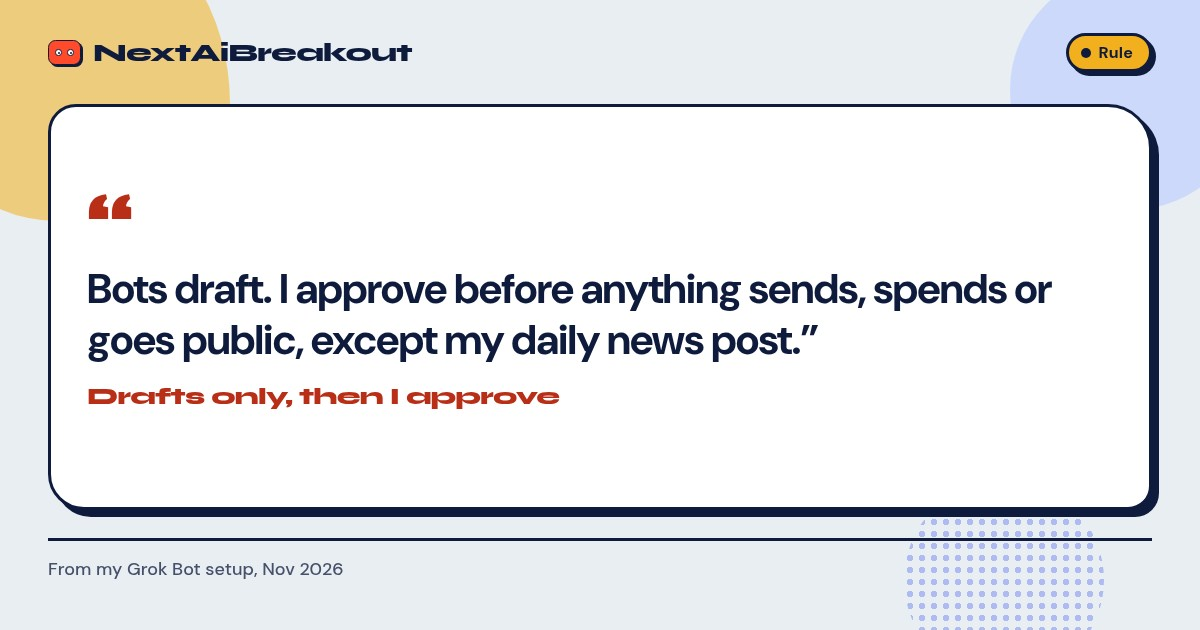
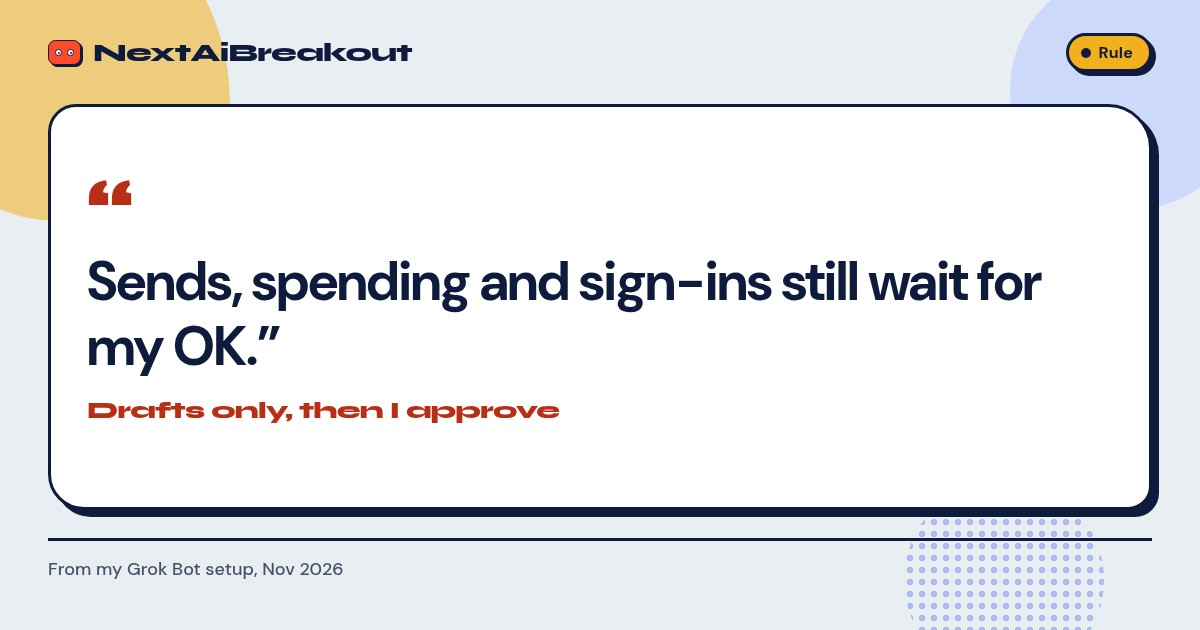
Copy: match auto-post rules for news, queued tips, and sends
QC text: daily news goes out after the automated gate (no hook-line check; re-fetch cited X posts). Queued X tip posts go out on a schedule after the checker bot. Sends, spending and sign-ins still wait for my OK. Also fix the hook-line 'four of seven' count, the lesson-post wording, drafts-only, the footer, about, and llms.txt.

Changed region(s): [[0.0617, 0.3921, 0.8942, 0.6635], [0.0617, 0.2714, 0.1233, 0.3619]]

diff --git a/tips.py b/tips.py
@@ -52,10 +52,10 @@ TIPS = [
         "slug": "drafts-only-approval",
         "title": "Drafts only, then I approve",
         "seo_title": "Drafts only, then I approve | NextAiBreakout",
-        "meta": "Bots draft; I approve sends, spending and anything that goes public. The one exception is my daily news post, which an automated checker clears first.",
-        "tip": "Bots draft; I approve sends, spending and anything that goes public, except my daily news post, which an automated checker clears before it goes up. That's the rule that lets me run a fleet without waking up to a surprise on my account. What still goes out without you seeing it first?",
-        "how": "The rule is simple: no posts, no emails, no DMs, no spends unless I've approved them. The one exception is my daily news post: a script checks it against its sources before it goes up. Bots write drafts. I say yes. Another bot saying \"it's ready\" is not approval. That sounds slow. It isn't. It just means I sleep.",
-        "alt": "Brand card quoting the drafts-only rule: bots draft, and I approve before anything sends, spends or goes public, except my daily news post.",
+        "meta": "Sends, spending and sign-ins still wait for my OK. X tip posts go out after my checker bot reviews them. Daily news publishes after an automated gate.",
+        "tip": "Sends, spending and sign-ins still wait for my OK. My queued X tip posts go out on a schedule after my checker bot reviews them. Daily news posts publish once an automated gate passes them. That's the rule that lets me run a fleet without waking up to a surprise send or spend. What still goes out without you seeing it first?",
+        "how": "Sends, spending and sign-ins still wait for my OK. My queued X tip posts go out on a schedule after my checker bot reviews them. Daily news posts publish once an automated gate passes them, with no human or checker-bot review. Bots write drafts. Another bot saying \"it's ready\" is not approval for a send, a spend or a sign-in. My yes is the only approval on those.",
+        "alt": "Brand card quoting the drafts-only rule: sends, spending and sign-ins still wait for my OK.",
         "slot": "A quote card of the drafts-only rule.",
         "section": "approvals",
         "siblings": ["approve-spend-and-credentials", "bot-drafts-checker-reviews", "scheduled-pack-and-gates"],
@@ -172,9 +172,9 @@ TIPS = [
         "slug": "scheduled-pack-and-gates",
         "title": "Daily news posts go out after a gate",
         "seo_title": "Daily news posts go out after a gate | NextAiBreakout",
-        "meta": "Daily news posts write, pass an automated gate, and go out to the site and X on a schedule. Everything else still waits for my OK.",
-        "tip": "Daily news posts write, pass an automated gate, and go out to the site and X on a schedule. Everything else still waits for my OK. Scheduled prompts are useful. Publishing with no gate is not. When do you actually review what your routines produced?",
-        "how": "The 6:45 AM morning pack is retired. A scheduled routine writes each daily news post. An automated gate re-checks the sources, confirms the links return 200, and rejects placeholders and a missing hook line. Then the post publishes on the site and goes to X. Sends, spending, and other public posts still wait for my OK. A schedule without a gate is just a way to publish mistakes on time.",
+        "meta": "Daily news posts write, pass an automated gate, and go out to the site and X on a schedule. Sends, spending and sign-ins still wait for my OK.",
+        "tip": "Daily news posts write, pass an automated gate, and go out to the site and X on a schedule. Sends, spending and sign-ins still wait for my OK. Scheduled prompts are useful. Publishing with no gate is not. When do you actually review what your routines produced?",
+        "how": "The 6:45 AM morning pack is retired. A scheduled routine writes each daily news post. An automated gate re-fetches every cited X post and checks each quote and number against it, confirms every link returns 200, and rejects placeholders. Then the post publishes on the site and goes to X. My queued X tip posts go out on a schedule after my checker bot reviews them. Sends, spending and sign-ins still wait for my OK. A schedule without a gate is just a way to publish mistakes on time.",
         "alt": "Brand card quoting the scheduling rule: scheduled prompts are useful, publishing with no gate is not.",
         "slot": "A card of the checked-then-scheduled rule, with no clock times.",
         "section": "routines",
@@ -186,7 +186,7 @@ TIPS = [
         "seo_title": "Open every post with a hook line | NextAiBreakout",
         "meta": "On Nov 14 I rewrote the first line of 7 X drafts: Days 10 to 14 and two weekly thread openers. A hook is a true, specific first line the post delivers.",
         "tip": "On Nov 14 I rewrote the first line of 7 X drafts: Days 10 to 14 and two weekly thread openers. A hook is a true, specific first line, ideally with a real number or payoff, that the post actually delivers. No clickbait. What's the first line you'd fix on your feed?",
-        "how": """On Nov 14 I rewrote the first line of 7 unposted X drafts: Days 10 to 14, and the Week 1 and Week 2 thread openers. For most of them, only the first line changed. A few needed one more edit so the whole post stayed true.
+        "how": """On Nov 14 I rewrote the first line of 7 unposted X drafts: Days 10 to 14, and the Week 1 and Week 2 thread openers. In four of them, the opening post changed only its first line. The others needed more edits so the whole post stayed true.
 
 Here are the real first lines.
 
@@ -214,9 +214,9 @@ The rule I use now: lead with the most specific true thing in the post, a number
         "slug": "turn-lessons-into-posts",
         "title": "Turn lessons into posts",
         "seo_title": "Turn lessons into posts | NextAiBreakout",
-        "meta": "On Nov 14, the hook-line rule became a lesson post that goes through the same automated gate as my daily news.",
-        "tip": "On Nov 14, the hook-line rule became a lesson post that goes through the same automated gate as my daily news. When we adopt a lesson for ourselves, it also becomes a post so other people can learn it. Would you publish your bots' lessons?",
-        "how": "We adopted the hook-line rule on Nov 14, then I wrote it up as a lesson post with the real before-and-after first lines from our own drafts. That lesson goes through the same automated gate as the daily news: sources re-checked, links returning 200, no placeholders, and a hook line the post actually delivers. I want other people to be able to use what we just had to learn.",
+        "meta": "On Nov 14, I wrote the hook-line rule up as a lesson post, using real before-and-after lines from our drafts.",
+        "tip": "On Nov 14, I wrote the hook-line rule up as a lesson post. When we adopt a lesson for ourselves, it also becomes a post so other people can learn it. Would you publish your bots' lessons?",
+        "how": "We adopted the hook-line rule on Nov 14, then I wrote it up as a lesson post with the real before-and-after first lines from our own drafts. Its examples have to match our draft files word for word, and it gets a checker review before it goes out. I want other people to be able to use what we just had to learn.",
         "alt": "Brand card comparing a fix we adopted with the same lesson turned into a post.",
         "slot": "A compare card: we fixed it, now it's a post.",
         "section": "skills",
@@ -447,14 +447,14 @@ PROMPTS = {
         {'note': 'For the checker bot.', 'text': "You are the checker for this email. Review the draft before anything can go out. Do not send it. Flag problems and hold it if it isn't ready. It only goes out after I approve the send. Nothing goes out on a bot's say-so alone. Fast draft, slow send."},
     ],
     'scheduled-pack-and-gates': [
-        {'note': 'For the daily news writer.', 'text': 'You write the daily news post on the schedule I set. Do not publish it yourself. The draft has to pass the automated gate first: sources re-checked, links returning 200, no placeholders, and a hook line the post actually delivers. Scheduled prompts are useful; publishing with no gate is not.'},
-        {'note': 'For the automated gate.', 'text': 'You are the automated gate for the daily news post. Re-check the sources, confirm every link returns 200, reject placeholders, and confirm the first line is a hook the post delivers. If it fails, hold it. If it passes, it can publish to the site and X. This gate is only for the daily news post. Sends, spending, and other public posts still wait for my OK.'},
+        {'note': 'For the daily news writer.', 'text': 'You write the daily news post on the schedule I set. Do not publish it yourself. The draft has to pass the automated gate first: cited posts re-checked, links returning 200, and no placeholders. Open with a hook line the post actually delivers. Scheduled prompts are useful; publishing with no gate is not.'},
+        {'note': 'For the automated gate.', 'text': 'You are the automated gate for the daily news post. Re-fetch every cited post and check each quote and number against it, confirm every link returns 200, and reject placeholders. If it fails, hold it. If it passes, it can publish to the site and X. This gate is only for the daily news post. Sends, spending and sign-ins still wait for my OK.'},
     ],
     'open-with-a-hook-line': [
         {'text': 'Every post you draft opens with a hook line: a true, specific first line, ideally with a real number or payoff, that the rest of the post actually delivers. No clickbait. If the post cannot pay off the hook, change the line, not the facts. Never use a number you cannot point to.'},
     ],
     'turn-lessons-into-posts': [
-        {'text': 'When we adopt a lesson or improvement for ourselves, write it up as a post so other people can learn it. Use real before-and-after examples from our own files, quoted word for word. Do not invent numbers or stories. The post goes through the same automated gate as the daily news before it can publish.'},
+        {'text': 'When we adopt a lesson or improvement for ourselves, write it up as a post so other people can learn it. Use real before-and-after examples from our own files, quoted word for word. Do not invent numbers or stories. The post gets a checker review before it can publish.'},
     ],
     'recheck-after-late-edits': [
         {'text': 'A review only covers the version you checked. If the file is edited after you pass it, the pass no longer applies. Re-check the file after any late edit, and do not let it go out until that new pass is done.'},
@@ -554,9 +554,9 @@ PROS_CONS = {
     },
     "drafts-only-approval": {
         "pros": [
-            "Nothing sends or spends while I sleep.",
-            "I still see every email, DM, spend and post before it goes out, except my daily news post.",
-            "I can run a fleet without waking up to a surprise on my account.",
+            "Sends, spending and sign-ins still wait for my OK.",
+            "Queued X tip posts go out on a schedule after my checker bot reviews them.",
+            "Daily news posts publish once an automated gate passes them.",
         ],
         "cons": [
             "I have to actually approve, so work waits on me.",
@@ -664,8 +664,8 @@ PROS_CONS = {
     "scheduled-pack-and-gates": {
         "pros": [
             "Daily news can go out on schedule after a real gate, without me tapping send.",
-            "The gate re-checks sources, link status, placeholders, and the hook line.",
-            "Sends, spending, and other public posts still wait for my OK.",
+            "The gate re-checks cited posts, link status, and placeholders.",
+            "Sends, spending and sign-ins still wait for my OK.",
         ],
         "cons": [
             "A schedule without a gate is just a way to publish mistakes on time.",
@@ -688,11 +688,11 @@ PROS_CONS = {
         "pros": [
             "Other people can learn the same lesson from a real example.",
             "The post uses our own drafts, so nothing is invented.",
-            "It goes through the same automated gate as the daily news.",
+            "It gets a checker review before it goes out.",
         ],
         "cons": [
             "You show your mistakes and late fixes in public.",
-            "A lesson post still has to wait on the gate, so it doesn't go out the second you learn it.",
+            "A lesson post still waits for review, so it doesn't go out the second you learn it.",
         ],
     },
     "recheck-after-late-edits": {

diff --git a/build.py b/build.py
@@ -129,7 +129,7 @@ def head(title, desc, path, root="", extra=""):
 
 def foot(year, root=""):
     return f"""<footer><div class="fbase"><span>© {year} NextAiBreakout.com. {TAG}</span><span class="fmeta"><a href="/tips/">Grok Bot Tips</a><a href="/claude/">Claude Tips</a><a href="/blog/">Blog</a><a href="/about">About</a><a href="/feed.xml">RSS</a><a href="{root}llms.txt">llms.txt</a><a href="{X_URL}" rel="me noopener" target="_blank">X {X_HANDLE}</a></span></div>
-<p class="fnote">Tips are reviewed before they go up. Daily news posts publish automatically once an automated checker passes them. Everything else waits for my OK.</p></footer>"""
+<p class="fnote">Daily news posts publish once an automated gate passes them. Other posts publish on a schedule after my checker bot reviews them. Sends, spending and sign-ins still wait for my OK.</p></footer>"""
 
 def row(i, n):
     return f"""<tr data-src="{i['source']}" data-tag="{i['tag']}"><td class="rk">{n}</td>
@@ -197,7 +197,7 @@ LLMS = """# NextAiBreakout
 - [About](https://nextaibreakout.com/about)
 
 ## Notes
-Pages wait for my OK before they go up. The one exception is the daily news post, which publishes automatically once an automated checker passes it. This site no longer ranks AI repos, models, or packages by hourly velocity.
+Pages and posts go up after a checker review; the daily news post is cleared by an automated gate. Sends, spending and sign-ins still wait for my OK. This site no longer ranks AI repos, models, or packages by hourly velocity.
 """
 
 
@@ -273,7 +273,7 @@ def home_page(year):
 <li class="rv">{bot_head("var(--red)")}<span><b>2. The lead bot routes it</b><span>It picks the specialist and brings back one result.</span></span></li>
 <li class="rv">{bot_head("var(--blue)", ".16em")}<span><b>3. A specialist drafts</b><span>One job each. It writes a draft; it can't publish.</span></span></li>
 <li class="rv">{bot_head("var(--och)", "50% 50% .4em .4em", big=True)}<span><b>4. The Quality Checker holds weak work</b><span>No before and after, no pass.</span></span></li>
-<li class="rv">{bot_head("#fff", "50%")}<span><b>5. I approve</b><span>Sends, spends and posts wait for my yes. The one exception is my daily news post, which an automated checker clears.</span></span></li>
+<li class="rv">{bot_head("#fff", "50%")}<span><b>5. I approve</b><span>Sends, spending and sign-ins still wait for my OK.</span></span></li>
 </ol></div>
 </div></section>
 {grok_sec}
@@ -336,7 +336,7 @@ def about_page(year):
 
 <h2>What gets {circ("published")}</h2>
 <p>Every tip comes from work I actually ran. You get the problem, how I did it, and what happened. A screenshot goes up when I have one that's safe to show. If I don't have those, the tip stays off the site.</p>
-<p>I talk to one lead bot. A Quality Checker reviews work before it reaches me. Tips are reviewed before they go up. Daily news posts publish automatically once an automated checker passes them. Everything else waits for my OK.</p>
+<p>I talk to one lead bot. A Quality Checker reviews work before it reaches me. Daily news posts publish once an automated gate passes them. Other posts publish on a schedule after my checker bot reviews them. Sends, spending and sign-ins still wait for my OK.</p>
 <p>This site no longer ranks AI repos, models, or packages by hourly velocity.</p>
 <p><a href="/tips/">See all Grok Bot tips</a> · <a href="/claude/">See all Claude Tips</a> · <a href="/blog/">See the blog</a></p>
 <p class="follow-p">Follow along on X: <a href="{X_URL}" rel="me noopener" target="_blank">{X_HANDLE}</a>.</p>

diff --git a/brand/render_cutouts.py b/brand/render_cutouts.py
@@ -192,7 +192,7 @@ TIPS = [
          quote="Specialists don't report to me. They hand work to each other with a clear output, and the lead bot brings me one result.",
          title="Agent-to-agent handoffs"),
     dict(slug="drafts-only-approval", layout="quote", pill="Rule",
-         quote="Bots draft. I approve before anything sends, spends or goes public, except my daily news post.",
+         quote="Sends, spending and sign-ins still wait for my OK.",
          title="Drafts only, then I approve"),
     dict(slug="shared-skills-across-bots", layout="quote", pill="Skills",
          quote="A skill is a reusable playbook, not a prompt I retype every morning.",
@@ -405,7 +405,7 @@ X_CARDS = [
          tip="Specialists don't report to me. They hand work to each other with a clear output, and the lead bot brings me one result.",
          pro="Fewer pings.", con="A sloppy handoff can stall the chain, and I see it later."),
     dict(day=4, title="Drafts only, then I approve",
-         tip="Bots draft; I approve sends, spending and anything that goes public, except my daily news post, which an automated checker clears before it goes up.",
+         tip="Sends, spending and sign-ins still wait for my OK. My queued X tip posts go out on a schedule after my checker bot reviews them.",
          pro="No surprise posts on my account.", con="Other work waits while I'm away, even if it's ready."),
     dict(day=5, title="Save working workflows as skills",
          tip="When a workflow works, I save it as a skill and share it across bots so they don't reinvent the steps.",
